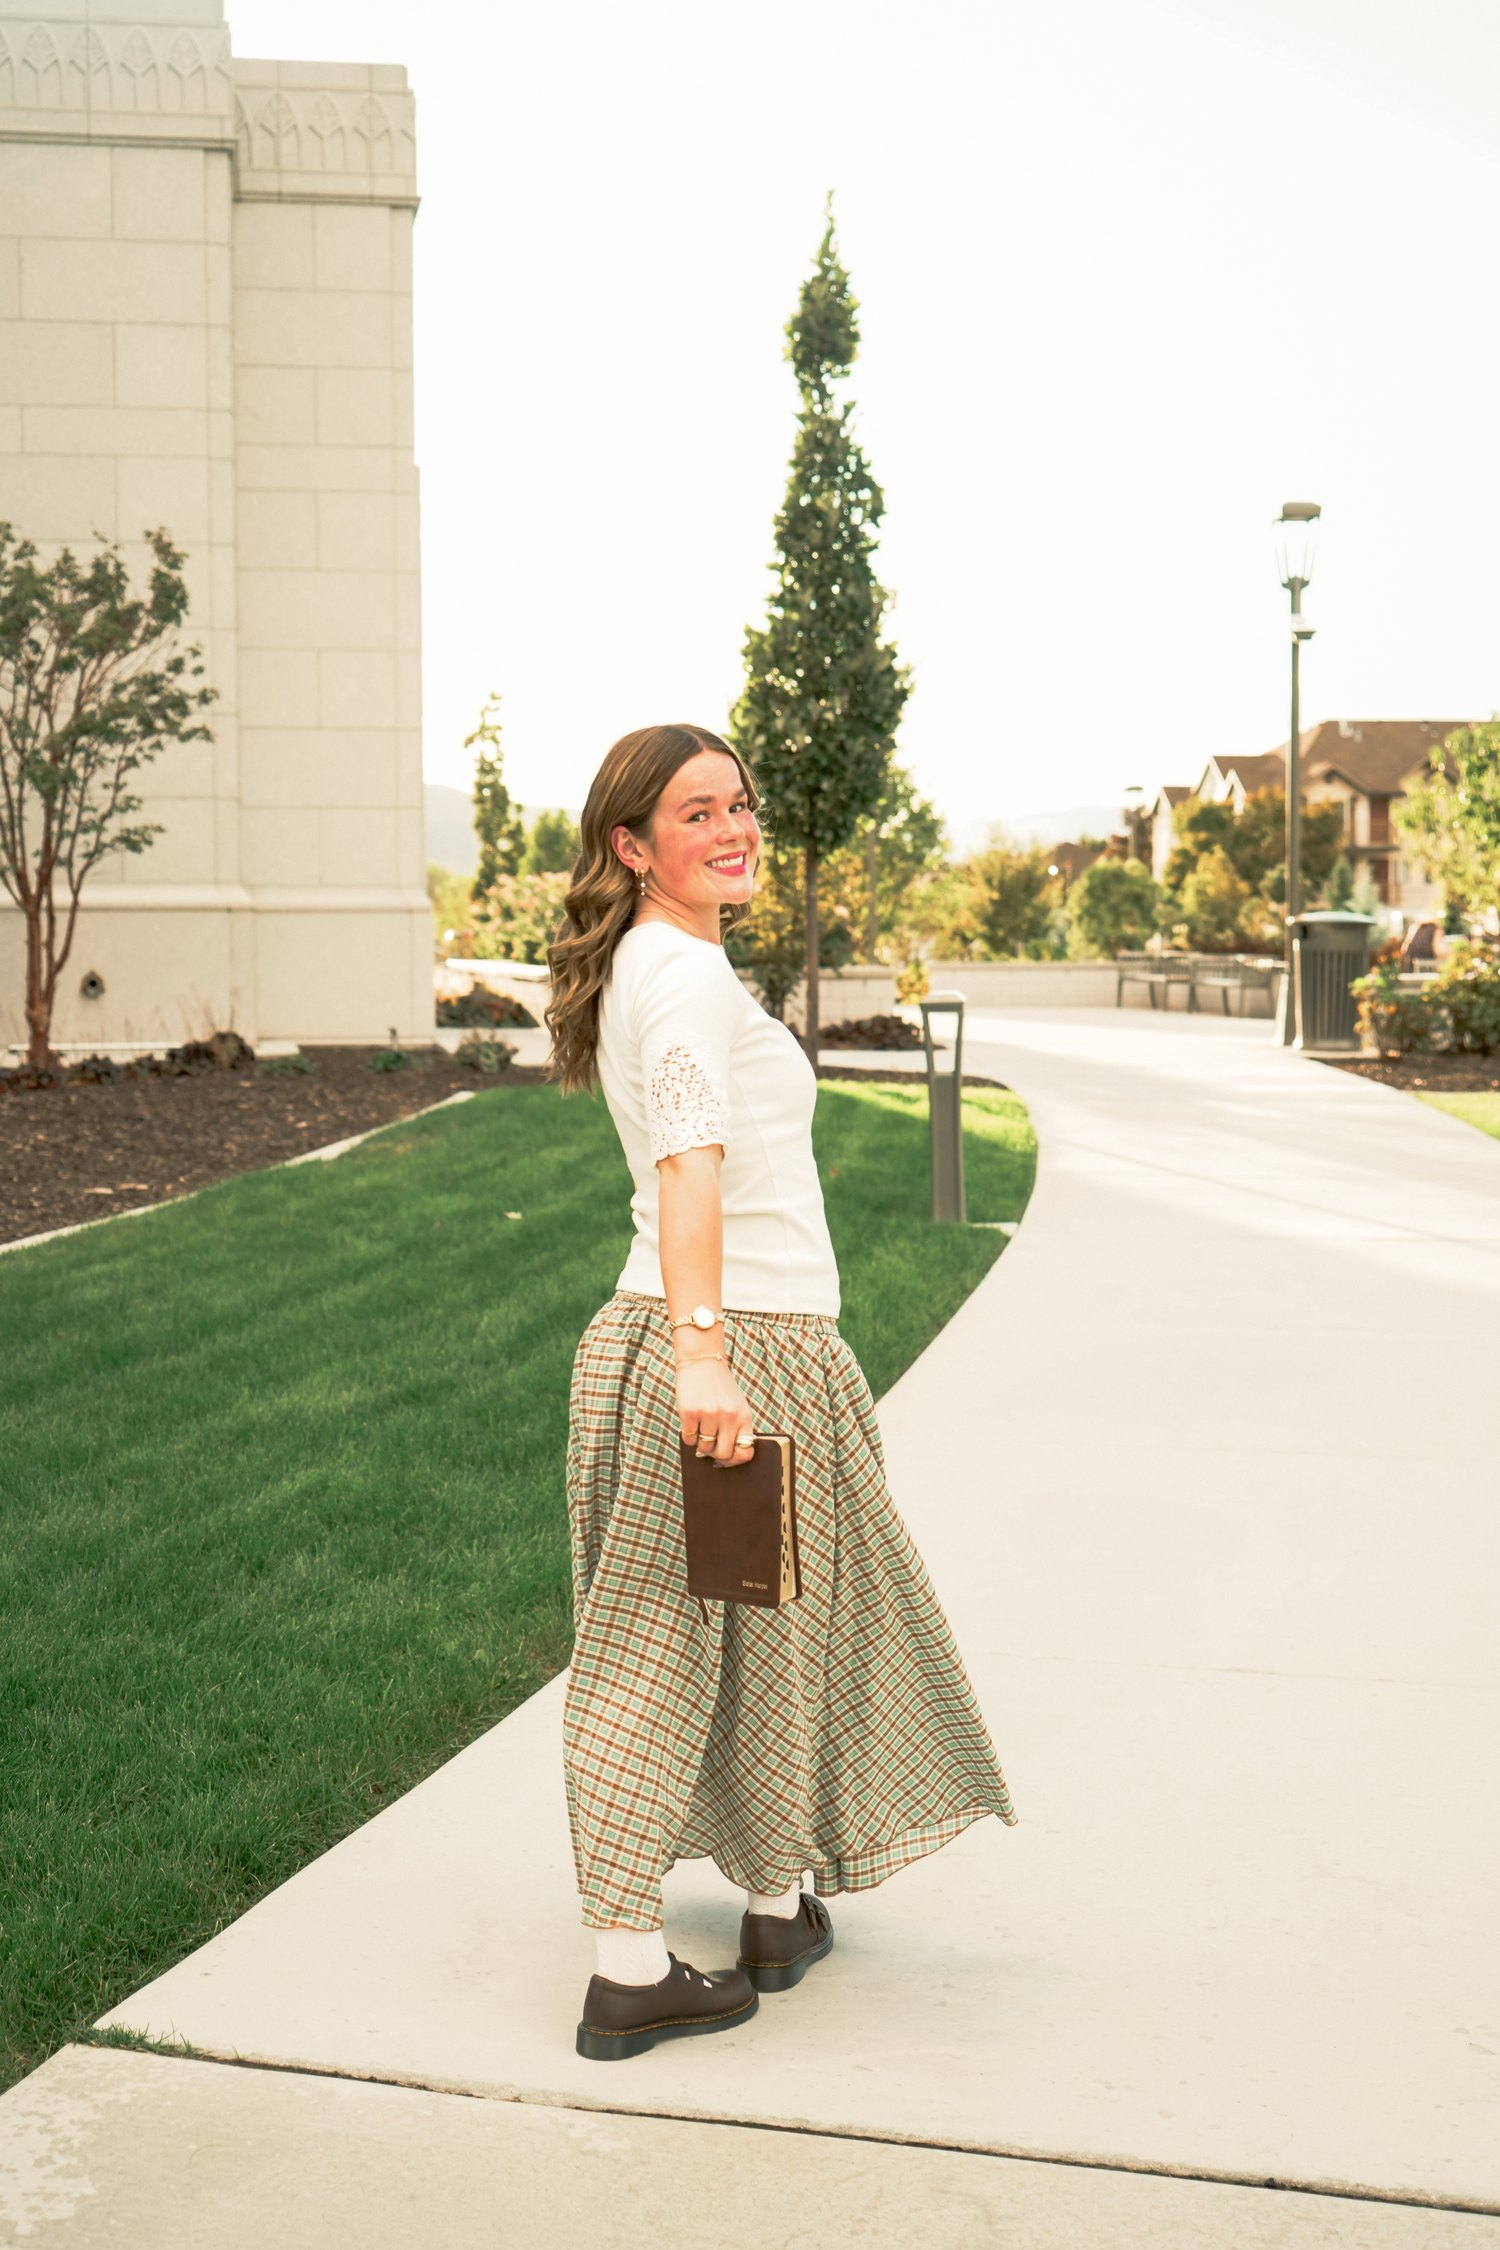
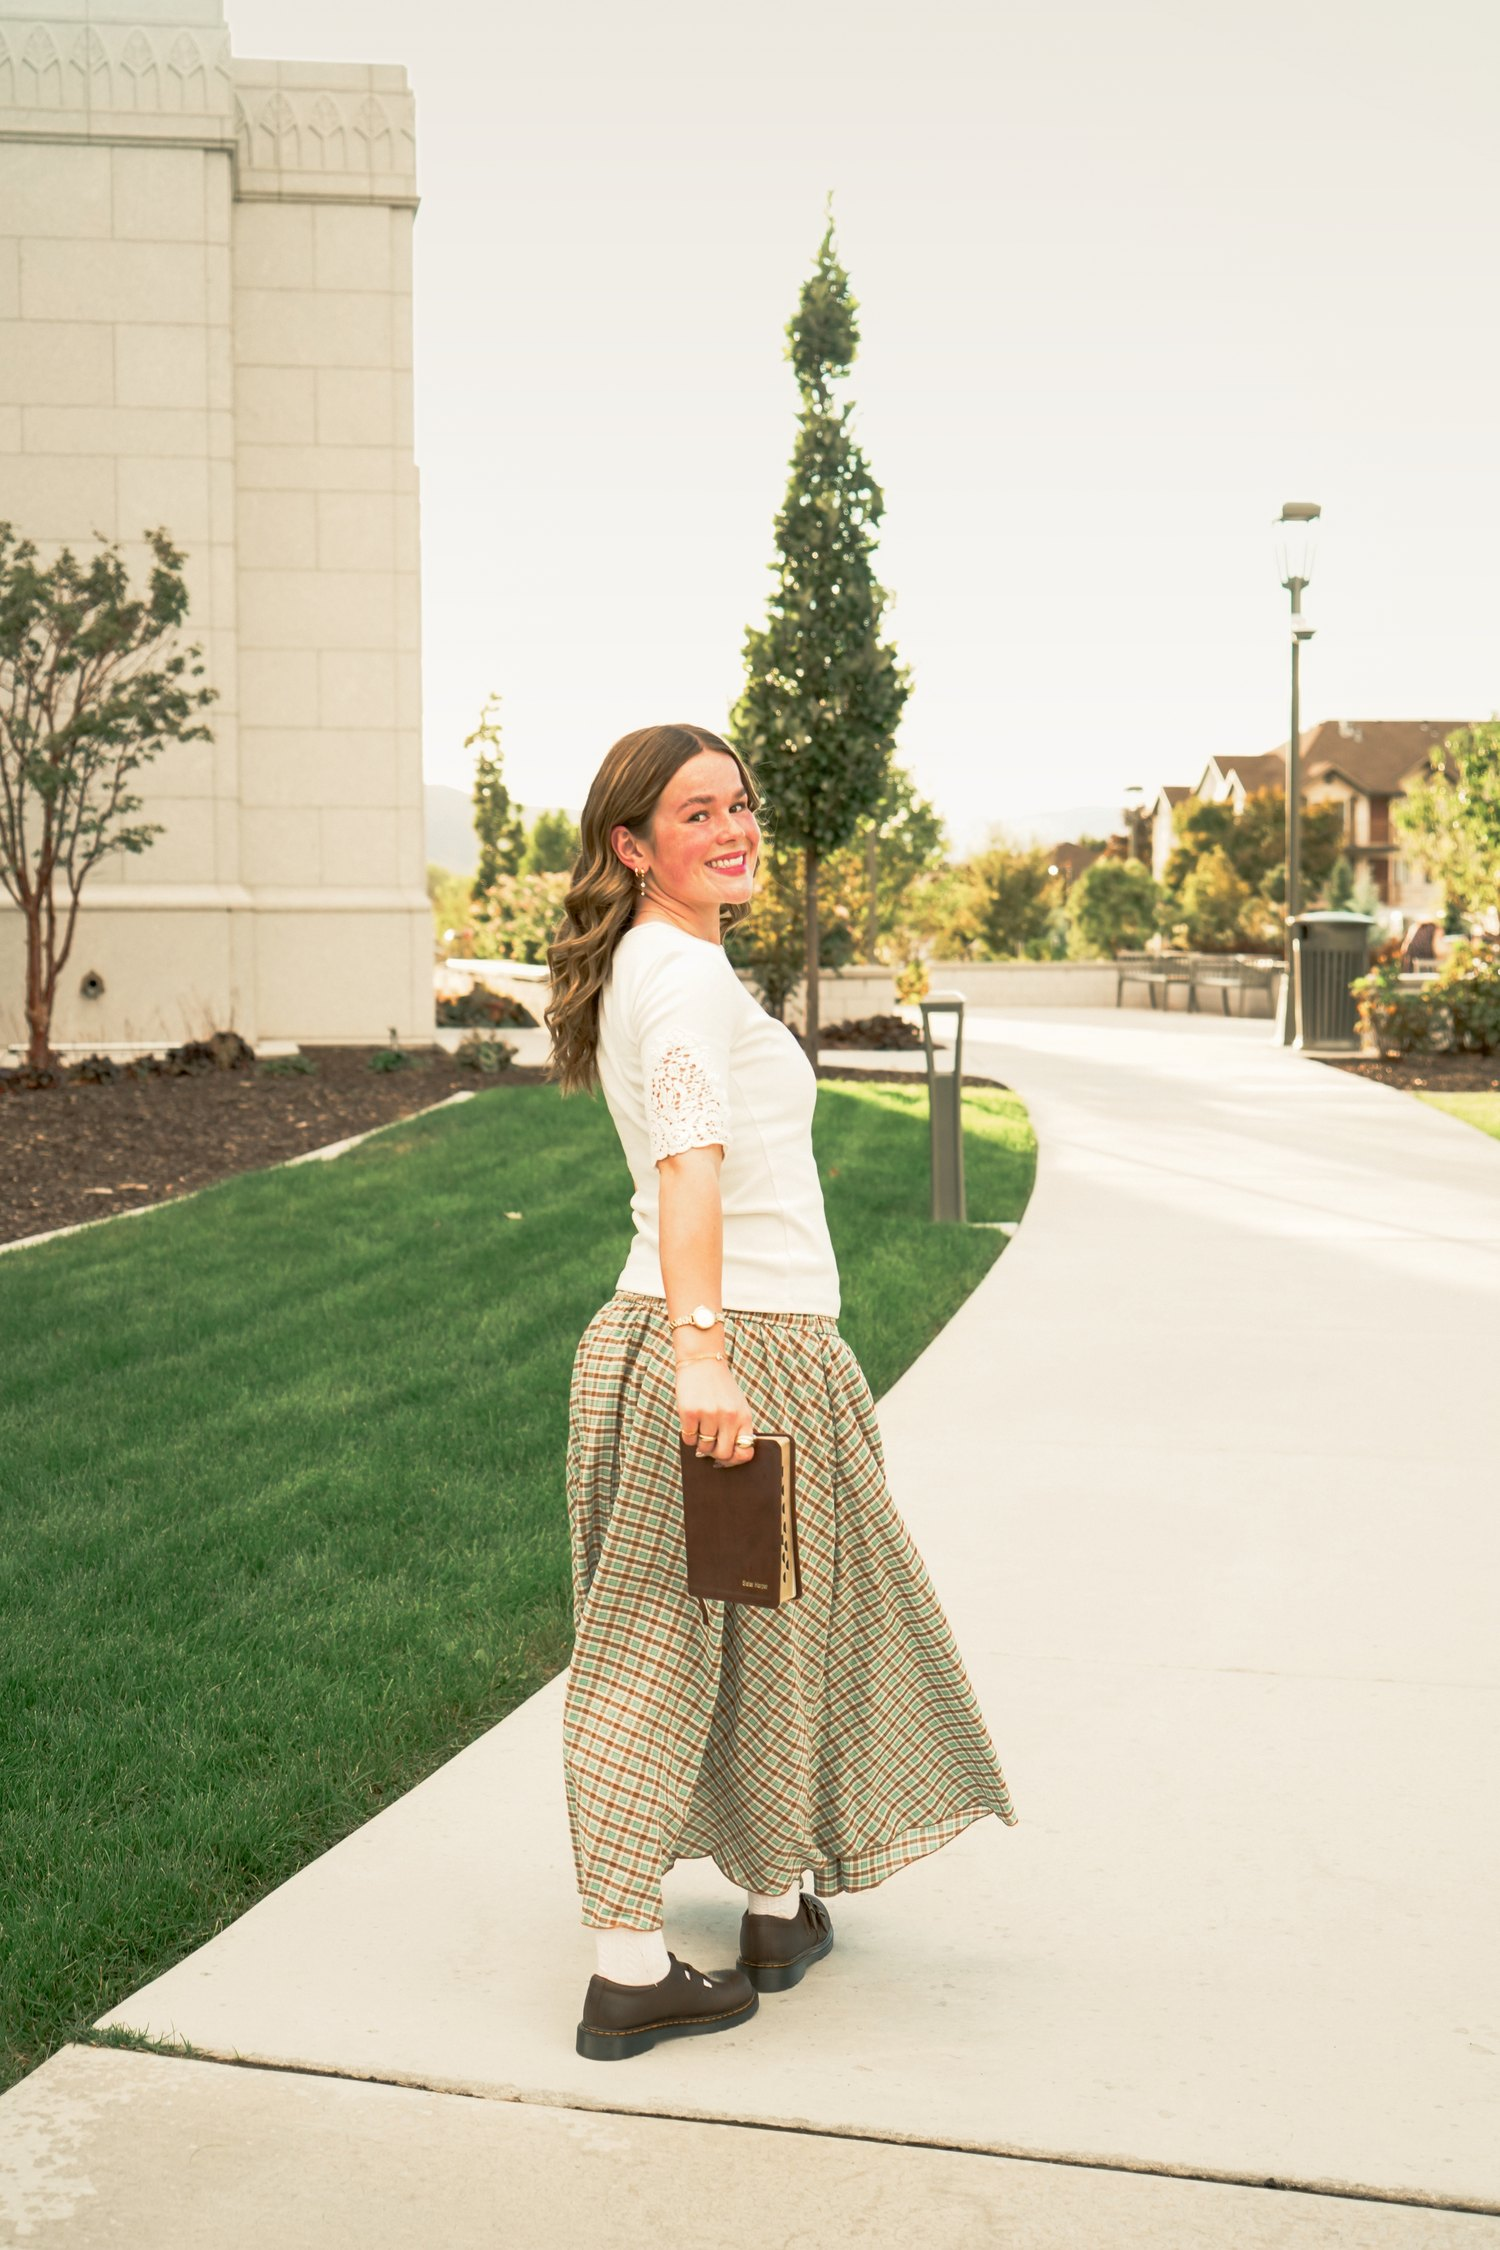
Portfolio swap, sky fix, and hero reorder
- Portfolio: remove IMG_1705 (couple walking away) and put IMG_9043
  (St. George desert portrait) in its spot, with a 500px phone copy
- DSC03549: soft graduated darkening of the blown-out sky; the 1000px,
  500px and JPEG copies are all regenerated from the fixed version
- Homepage hero: sunset lakeshore portrait moves to position 2,
  waterfall portrait to position 3

Re-applied on top of #11's srcset markup in place of the four earlier
local commits.

Changed region(s): [[0.1533, 0.0, 0.9507, 0.0933]]

diff --git a/portfolio.html b/portfolio.html
@@ -71,7 +71,7 @@
       <img src="assets/photos/web/DSC03191.webp" srcset="assets/photos/web/DSC03191-500.webp 500w, assets/photos/web/DSC03191.webp 1000w" sizes="(max-width: 600px) 100vw, (max-width: 900px) 50vw, 33vw" alt="Couple laughing during a toast at an indoor wedding reception" width="1000" height="1500" loading="lazy">
       <img src="assets/photos/web/DSC03661.webp" srcset="assets/photos/web/DSC03661-500.webp 500w, assets/photos/web/DSC03661.webp 1000w" sizes="(max-width: 600px) 100vw, (max-width: 900px) 50vw, 33vw" alt="Young woman in a polka-dot dress mid-step on a garden walkway, holding a book" width="1000" height="1500" loading="lazy">
       <img src="assets/photos/web/IMG_2668.webp" srcset="assets/photos/web/IMG_2668-500.webp 500w, assets/photos/web/IMG_2668.webp 1000w" sizes="(max-width: 600px) 100vw, (max-width: 900px) 50vw, 33vw" alt="Senior in a brown leather jacket sitting on driftwood on a sunlit lakeside hillside" width="1000" height="1500" loading="lazy">
-      <img src="assets/photos/web/IMG_1705.webp" srcset="assets/photos/web/IMG_1705-500.webp 500w, assets/photos/web/IMG_1705.webp 1000w" sizes="(max-width: 600px) 100vw, (max-width: 900px) 50vw, 33vw" alt="Couple walking hand in hand down a dirt path through a winter field" width="1000" height="1500" loading="lazy">
+      <img src="assets/photos/web/IMG_9043.webp" srcset="assets/photos/web/IMG_9043-500.webp 500w, assets/photos/web/IMG_9043.webp 1000w" sizes="(max-width: 600px) 100vw, (max-width: 900px) 50vw, 33vw" alt="Senior in a mint green tank top smiling in the red desert near St. George at sunset" width="1000" height="1493" loading="lazy">
       <img src="assets/photos/web/IMG_3309.webp" srcset="assets/photos/web/IMG_3309-500.webp 500w, assets/photos/web/IMG_3309.webp 1000w" sizes="(max-width: 600px) 100vw, (max-width: 900px) 50vw, 33vw" alt="Girl sitting on a lakeside rock at golden hour, resting her head on her knees" width="1000" height="1500" loading="lazy">
       <img src="assets/photos/web/IMG_2074.webp" srcset="assets/photos/web/IMG_2074-500.webp 500w, assets/photos/web/IMG_2074.webp 1000w" sizes="(max-width: 600px) 100vw, (max-width: 900px) 50vw, 33vw" alt="Girl walking away through golden grass with one arm raised to the sky" width="1000" height="1500" loading="lazy">
       <img src="assets/photos/web/IMG_1461.webp" srcset="assets/photos/web/IMG_1461-500.webp 500w, assets/photos/web/IMG_1461.webp 1000w" sizes="(max-width: 600px) 100vw, (max-width: 900px) 50vw, 33vw" alt="Close-up of a striped knit scarf and light jeans in a field" width="1000" height="1314" loading="lazy">

diff --git a/index.html b/index.html
@@ -134,8 +134,8 @@
   <main>
     <section class="hero-strip" aria-label="Featured photos">
       <img src="assets/photos/web/IMG_3997.webp" srcset="assets/photos/web/IMG_3997-500.webp 500w, assets/photos/web/IMG_3997.webp 1000w" sizes="(max-width: 900px) 50vw, 25vw" alt="Family of five sitting together in green grass by a pond" width="1000" height="1500" fetchpriority="high">
-      <img src="assets/photos/web/senior-waterfall.webp" srcset="assets/photos/web/senior-waterfall-500.webp 500w, assets/photos/web/senior-waterfall.webp 1000w" sizes="(max-width: 900px) 50vw, 25vw" alt="Senior portrait in a white dress beside a garden waterfall and pink zinnias" width="1000" height="1500">
       <img src="assets/photos/web/IMG_3326.webp" srcset="assets/photos/web/IMG_3326-500.webp 500w, assets/photos/web/IMG_3326.webp 1000w" sizes="(max-width: 900px) 50vw, 25vw" alt="Girl with her hands in her hair at the lakeshore during a peach-colored sunset" width="1000" height="1500">
+      <img src="assets/photos/web/senior-waterfall.webp" srcset="assets/photos/web/senior-waterfall-500.webp 500w, assets/photos/web/senior-waterfall.webp 1000w" sizes="(max-width: 900px) 50vw, 25vw" alt="Senior portrait in a white dress beside a garden waterfall and pink zinnias" width="1000" height="1500">
       <img src="assets/photos/web/IMG_2853.webp" srcset="assets/photos/web/IMG_2853-500.webp 500w, assets/photos/web/IMG_2853.webp 1000w" sizes="(max-width: 900px) 50vw, 25vw" alt="Two friends hugging in front of a snowy mountain peak and pine trees" width="1000" height="1500">
     </section>
 
